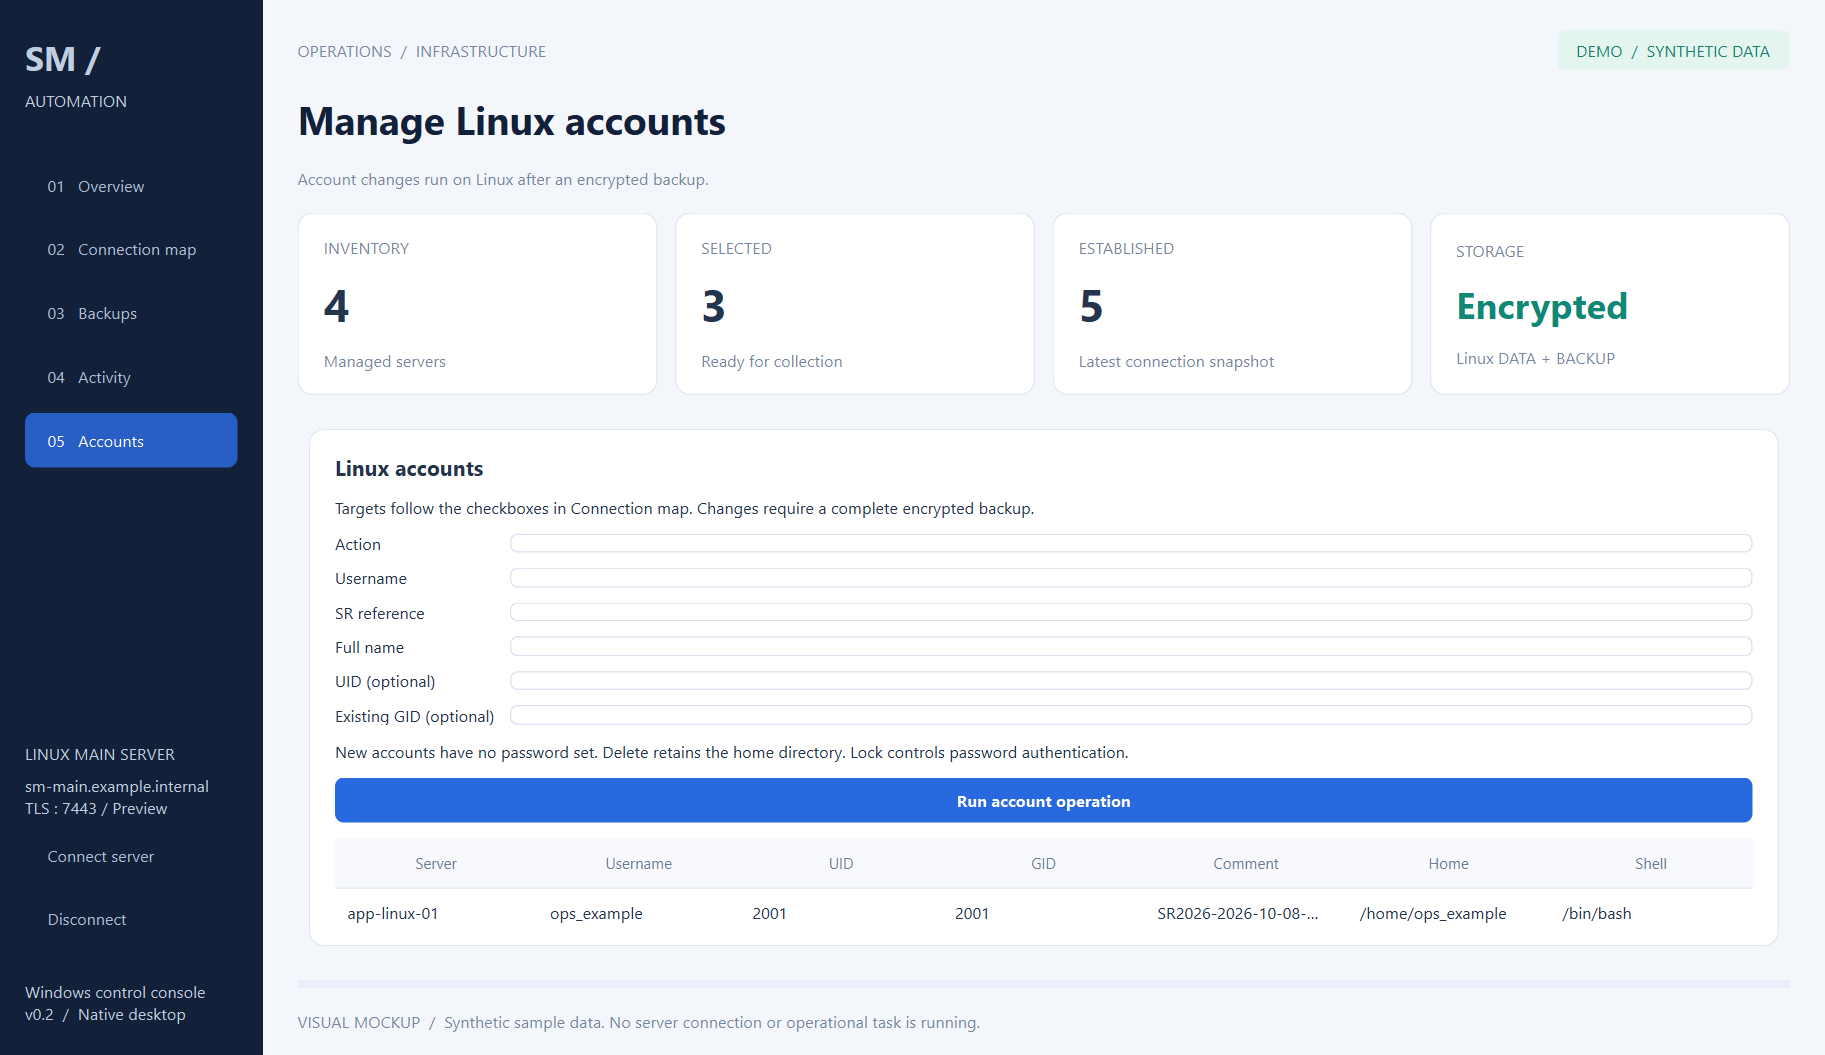
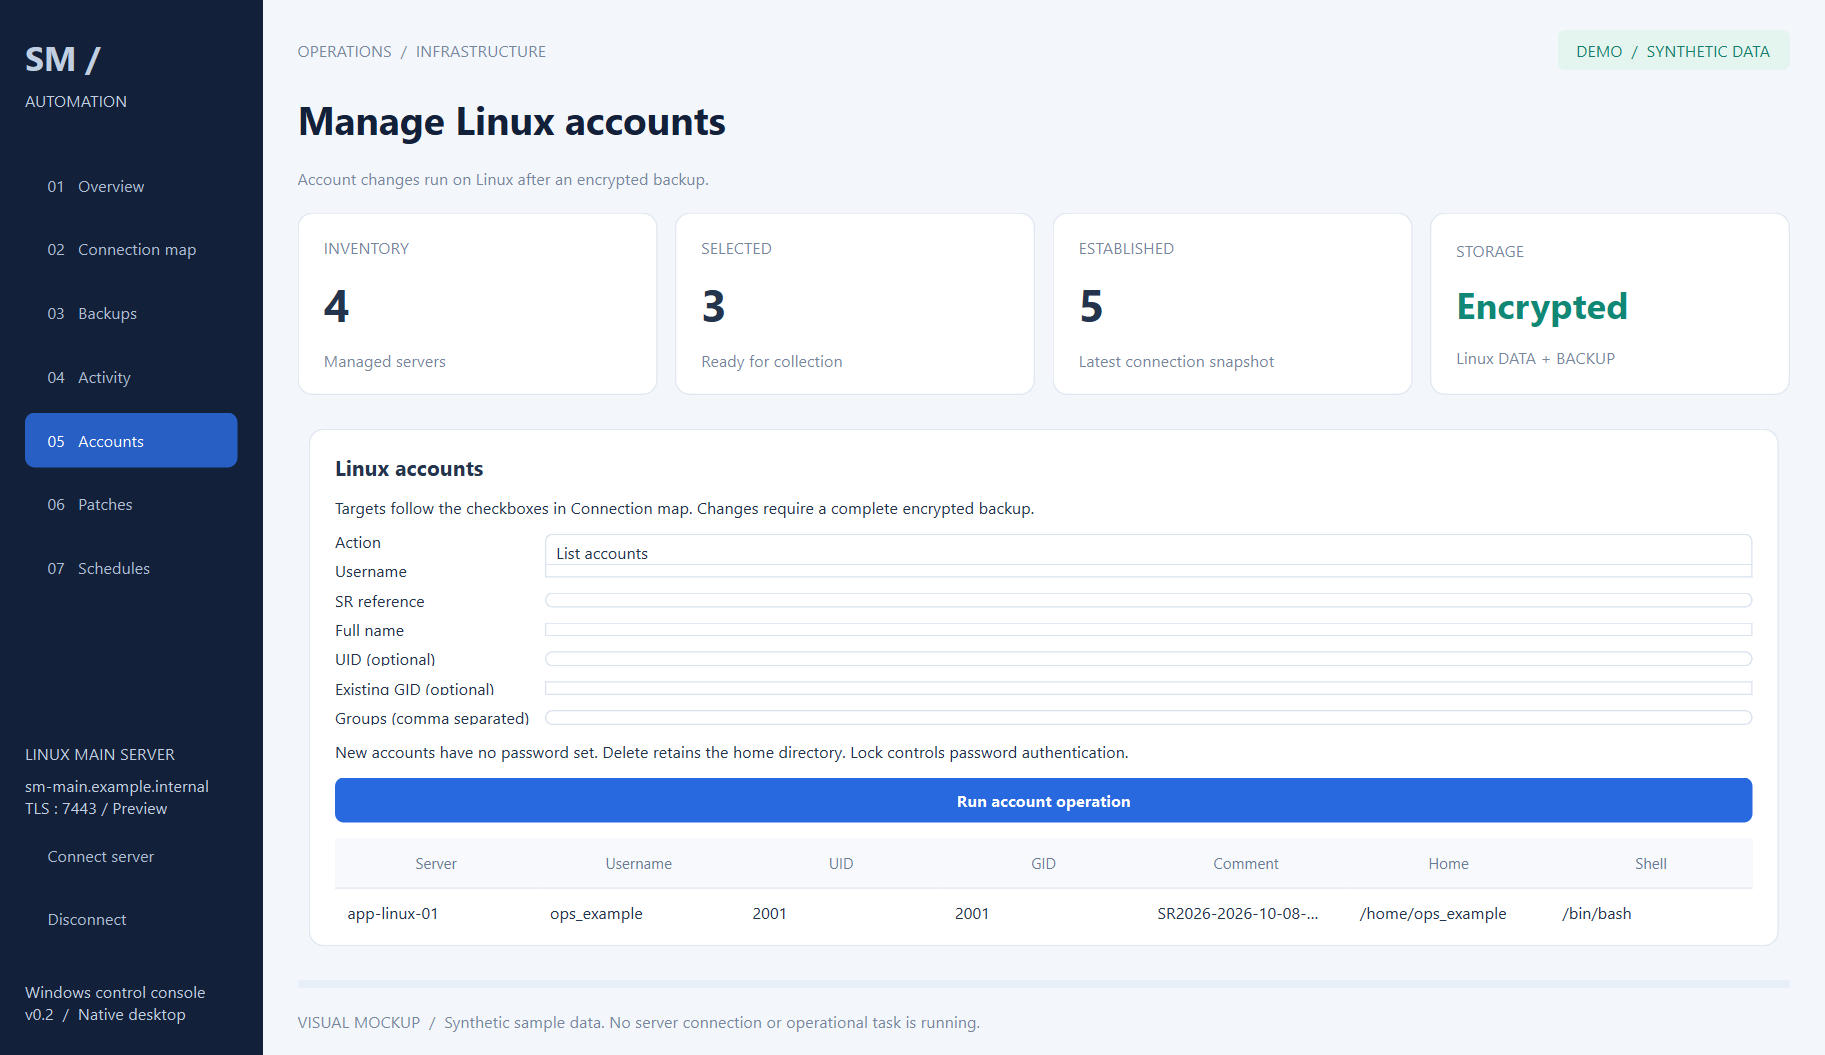
Add supplementary Linux groups through backed-up account jobs

diff --git a/src/account/manager.py b/src/account/manager.py
@@ -12,7 +12,7 @@ def validate_options(options):
     if not isinstance(options, dict):
         raise ValueError("Account options must be an object")
     action = options.get("action", "list")
-    if action not in {"list", "create", "modify", "lock", "unlock", "delete"}:
+    if action not in {"list", "create", "modify", "groups", "lock", "unlock", "delete"}:
         raise ValueError("Unknown account action")
     result = {"action": action}
     if action == "list":
@@ -21,6 +21,12 @@ def validate_options(options):
     if not re.fullmatch(r"[a-z_][a-z0-9_-]{0,31}", username):
         raise ValueError("Use a Linux username of at most 32 lowercase characters")
     result["username"] = username
+    if action == "groups":
+        groups = str(options.get("groups", "")).split(",")
+        groups = [g.strip() for g in groups]
+        if not 1 <= len(groups) <= 32 or any(not re.fullmatch(r"[a-z_][a-z0-9_-]{0,31}", g) for g in groups):
+            raise ValueError("Provide up to 32 existing group names separated by commas")
+        result["groups"] = list(dict.fromkeys(groups))
     if action in {"create", "modify"}:
         for field in ("sr", "full_name"):
             value = str(options.get(field, "")).strip()
@@ -65,12 +71,16 @@ def account_command(options, login_user):
             "lock": f"usermod -L -- {user}",
             "unlock": f"usermod -U -- {user}",
             "delete": f"userdel -- {user}",
+            "groups": f"usermod -a -G {shlex.quote(','.join(options.get('groups', [])))} -- {user}",
         }[action]
+        if action == "groups":
+            for group in options["groups"]:
+                prefix += f"getent group {shlex.quote(group)} >/dev/null; "
         if action == "unlock":
             # An empty or never-set password must not become a passwordless login.
             prefix += f"hash=$(getent shadow {user} | cut -d: -f2); "
             prefix += "case \"$hash\" in '!$'*) ;; *) echo 'Unlock requires a previously set password hash' >&2; exit 1;; esac; "
-    suffix = f"; getent passwd {user}; passwd -S {user}" if action != "delete" else "; echo 'Account deleted; home retained'"
+    suffix = f"; getent passwd {user}; passwd -S {user}; id -nG {user}" if action != "delete" else "; echo 'Account deleted; home retained'"
     return prefix + command + suffix
 
 

diff --git a/src/desktop/main.py b/src/desktop/main.py
@@ -284,16 +284,19 @@ class Console(QMainWindow):
         frame, body = card(); body.addWidget(label("Linux accounts", "section"))
         body.addWidget(label("Targets follow the checkboxes in Connection map. Changes require a complete encrypted backup."))
         form = QFormLayout(); self.account_action = QComboBox()
-        for action, title in [("list", "List accounts"), ("create", "Create account"), ("modify", "Update SR and name"), ("lock", "Lock password login"), ("unlock", "Unlock password login"), ("delete", "Delete account (retain home)")]:
+        for action, title in [("list", "List accounts"), ("create", "Create account"), ("modify", "Update SR and name"), ("groups", "Add supplementary groups"), ("lock", "Lock password login"), ("unlock", "Unlock password login"), ("delete", "Delete account (retain home)")]:
             self.account_action.addItem(title, action)
         form.addRow("Action", self.account_action)
         self.account_fields = {}
         for name, title in [("username", "Username"), ("sr", "SR reference"), ("full_name", "Full name"), ("uid", "UID (optional)"), ("gid", "Existing GID (optional)")]:
             field = QLineEdit(); self.account_fields[name] = field; form.addRow(title, field)
         body.addLayout(form)
+        self.account_fields["groups"] = QLineEdit(); form.addRow("Groups (comma separated)", self.account_fields["groups"])
         def update_fields():
             action = self.account_action.currentData()
             for name, field in self.account_fields.items():
+                if name == "groups":
+                    field.setEnabled(action == "groups"); continue
                 field.setEnabled(action != "list" if name == "username" else action in ({"create"} if name in {"uid", "gid"} else {"create", "modify"}))
         self.account_action.currentIndexChanged.connect(update_fields); update_fields()
         body.addWidget(label("New accounts have no password set. Delete retains the home directory. Lock controls password authentication."))

diff --git a/tests/test_account_manager.py b/tests/test_account_manager.py
@@ -36,6 +36,18 @@ def test_unlock_requires_existing_password():
     assert "Unlock requires a previously set password hash" in command
 
 
+def test_group_addition_preserves_existing_memberships():
+    options = validate_options({"action": "groups", "username": "example", "groups": "users,staff"})
+    command = account_command(options, "root")
+    assert "getent group users" in command
+    assert "usermod -a -G users,staff -- example" in command
+
+
+def test_group_argument_rejects_injection():
+    with pytest.raises(ValueError):
+        validate_options({"action": "groups", "username": "example", "groups": "users;id"})
+
+
 @pytest.mark.parametrize("uid", [True, -1, "1000;id", "999"])
 def test_invalid_uid(uid):
     with pytest.raises(ValueError):

diff --git a/scripts/wsl_account_check.py b/scripts/wsl_account_check.py
@@ -37,6 +37,8 @@ def main():
             assert job["status"] == "completed", row
             created = True
             assert row["result"]["backup"]["status"] == "completed"
+            job, row = run("groups", groups="users")
+            assert job["status"] == "completed" and "users" in row["result"]["output"], row
             for action, fields in [("modify", {"sr": "SR-WSL-TEST", "full_name": "Updated Test Account"}), ("lock", {})]:
                 job, row = run(action, **fields)
                 assert job["status"] == "completed", row

diff --git a/README.md b/README.md
@@ -61,7 +61,7 @@ py -3.14 -m venv .venv-gui
 
 ## 검증 상태
 
-후속 사용자 지시에 따라 로컬 WSL Ubuntu root 서버에서 기존 테스트 **195개가 통과**했습니다.
+후속 사용자 지시에 따라 로컬 WSL Ubuntu root 서버에서 기존 테스트 **197개가 통과**했습니다.
 Windows 클라이언트의 TLS 인증, 연결 수집, 자원 수집, 보안 감사, 암호화 백업과
 네이티브 GUI의 선택·작업 요청·마인드맵 표시를 확인했습니다. AIX/Windows 대상 실환경은 미검증입니다.
 실행 방법과 남은 작업은 [WSL 진행 기록](docs/wsl-progress.md)을 참조하세요.
